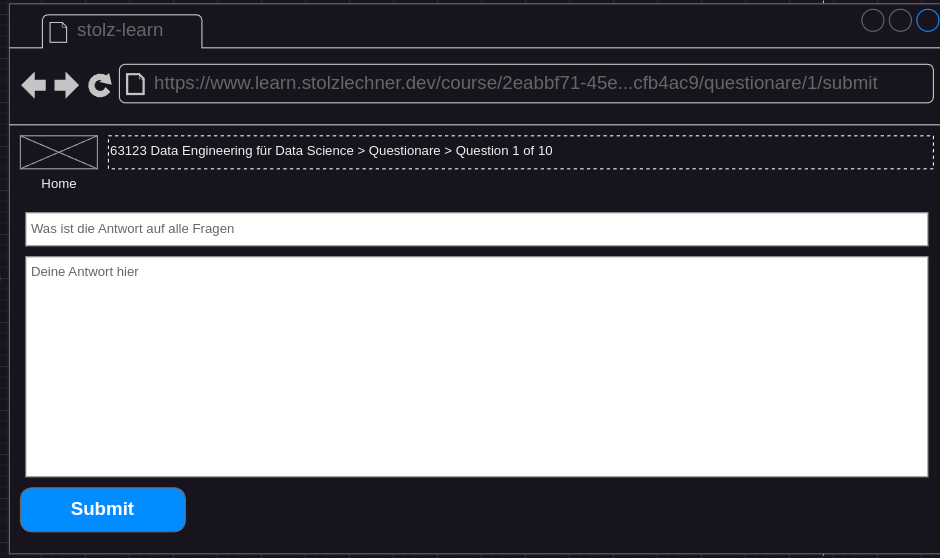
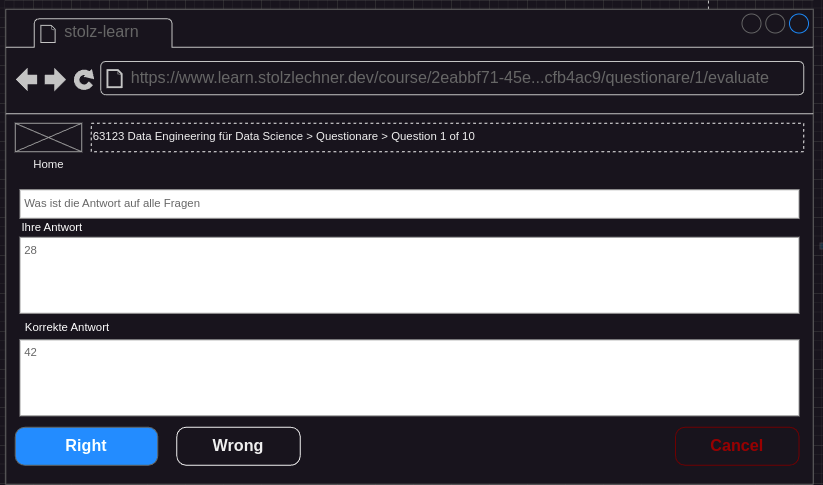
finish specifications

Changed region(s): [[0.0, 0.0, 1.0, 1.0], [0.8505, 0.8969, 0.9417, 0.9278]]

diff --git a/documentation/specifications/questionare-create.md b/documentation/specifications/questionare-create.md
@@ -1,0 +1,21 @@
+## Status
+- specified
+- not implemented
+
+## Precondition
+- a course is selected ([Select Course](./course-select.md))
+![Selected Course](../mockups/course-selected.png)
+
+
+## Description
+- The user clicks on the start questionare button.
+- The user answers 10 questions ([Answer Question](./question-answer.md))
+![Question](../mockups/questionare-submit.png)
+- At least a statistic is shown (how many answers are right how many are wrong)
+![Questionare Statistic](../mockups/questionare-statistics.png)
+- A click on ok goes back to the selected course
+
+## Cancel
+- The user can cancel a questionare. When he click on cancel during the Answer Steps or clicking to the home button.
+- In this case a confirm dialog is shown `Do you really want to cancel the quesitonare (no answer is saved) Yes/No`
+- A click on No simply closes the confirm dialog a click on Yes goes back to the selected course.

diff --git a/documentation/specifications/question-delete.md b/documentation/specifications/question-delete.md
@@ -1,0 +1,19 @@
+## Status
+- specified
+- not implemented
+
+## Precondition
+- a course is selected ([Select Course](./course-select.md))
+
+![Selected Course](../mockups/course-selected.png)
+
+## Description
+- The user clicks on the Questions Button. The List Question Screen appears
+![List Questions](../mockups//question-list-full.png)
+- The user clicks on the edit button of the question (right side)
+- The edit question dialog appears
+![Edit Question](../mockups/question-edit.png)
+- The user changes the question or the answer. The save button gets enabled when at least one field has changed.
+- The user clicks on delete. A confirm dialog is shown `Do you realy want to delete the question Yes/No`
+- A click on Yes deletes the question. The full question list is shown again.
+- A click on No does not delete the question. The Edit Question Screen is shown.

diff --git a/documentation/specifications/question-edit.md b/documentation/specifications/question-edit.md
@@ -1,0 +1,18 @@
+## Status
+- specified
+- not implemented
+
+## Precondition
+- a course is selected ([Select Course](./course-select.md))
+
+![Selected Course](../mockups/course-selected.png)
+
+## Description
+- The user clicks on the Questions Button. The List Question Screen appears
+![List Questions](../mockups//question-list-full.png)
+- The user clicks on the edit button of the question (right side)
+- The edit question dialog appears
+![Edit Question](../mockups/question-edit.png)
+- The user changes the question or the answer. The save button gets enabled when at least one field has changed.
+- The user clicks on save. The full question list is shown with the updated question.
+- A click on cancel also shows the full question  list but with no update

diff --git a/documentation/specifications/question-create.md b/documentation/specifications/question-create.md
@@ -1,0 +1,17 @@
+## Status
+- specified
+- not implemented
+
+## Precondition
+- a course is selected ([Select Course](./course-select.md))
+
+![Selected Course](../mockups/course-selected.png)
+
+## Description
+- The user clicks on the Questions Button. The List Question Screen appears
+![List Questions](../mockups//question-list-full.png)
+- The user clicks on new question Button. A form appears
+![New Question](../mockups/question-new.png)
+- The user types in the question and the answer. The save button becomes enabeled when each field have a value
+- The user clicks on save. The App shows the full question list again (with the newly created question)
+- A click on cancel does not create the question

diff --git a/documentation/specifications/question-answer.md b/documentation/specifications/question-answer.md
@@ -1,0 +1,16 @@
+## Status
+- specified
+- not implemented
+
+## Precondition
+- a questionare is started ([Create questionare](./questionare-create.md))
+
+
+## Description
+- The question is shown
+![Question](../mockups/questionare-submit.png)
+- The user types in the answer. And click on submit
+- The typed in answer and the real answer is shown
+![Question Evaluate](../mockups/questionare-evaluate.png)
+- The user can click on Wrong or Right, depanding on what he think if he gave the right answer
+- A new question is shown or the questionare statistic appears (if this is the last question)

diff --git a/documentation/specifications/course-show-statistic.md b/documentation/specifications/course-show-statistic.md
@@ -1,0 +1,14 @@
+## Status
+- specified
+- not implemented
+
+## Precondition
+- a course is selected ([Select Course](./course-select.md))
+
+![Selected Course](../mockups/course-selected.png)
+
+## Description
+- The statistic is shown between the top menu (home button, breadcrumb) and the buttons below
+- The statistic contains of two timelines
+    - one shows the count of the questions
+    - the second one shows the question count multiplied with the percentage of correct answers.
